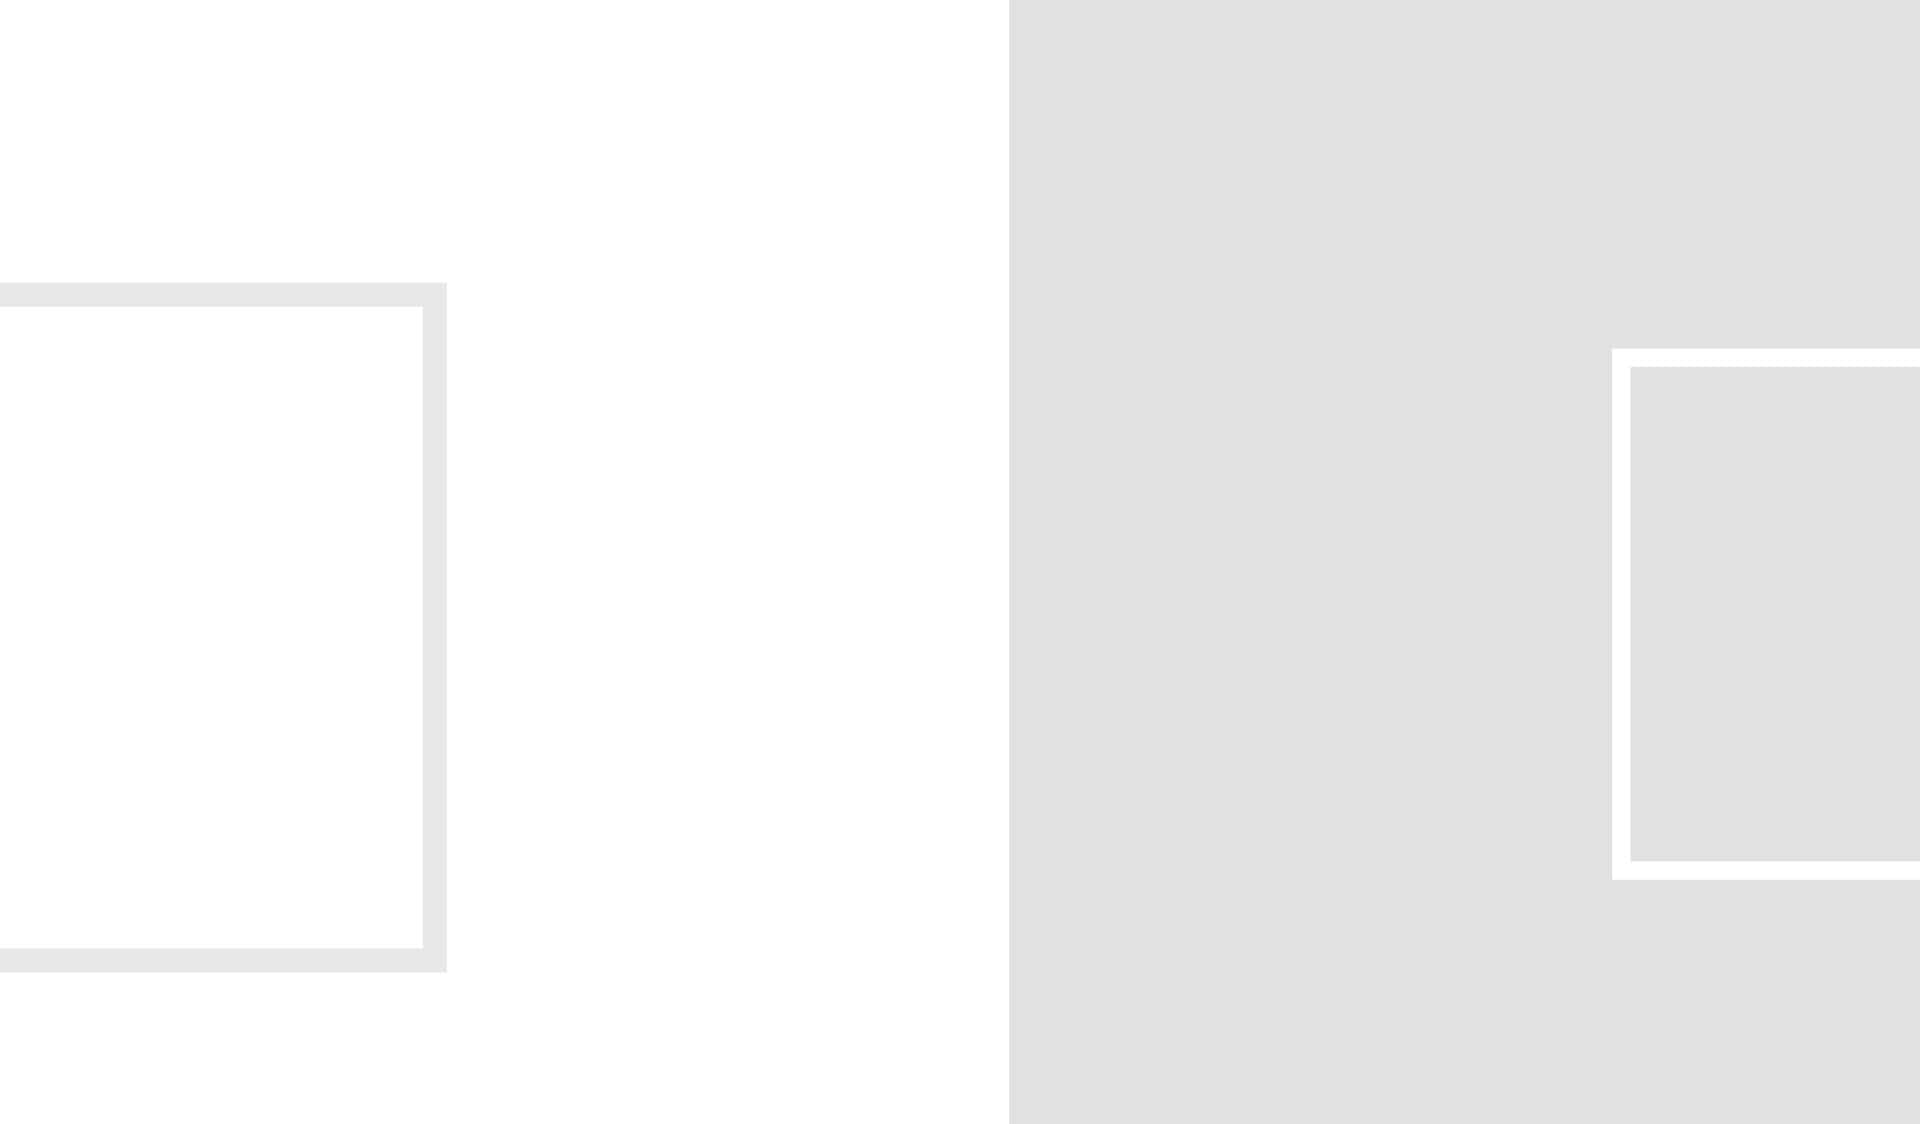
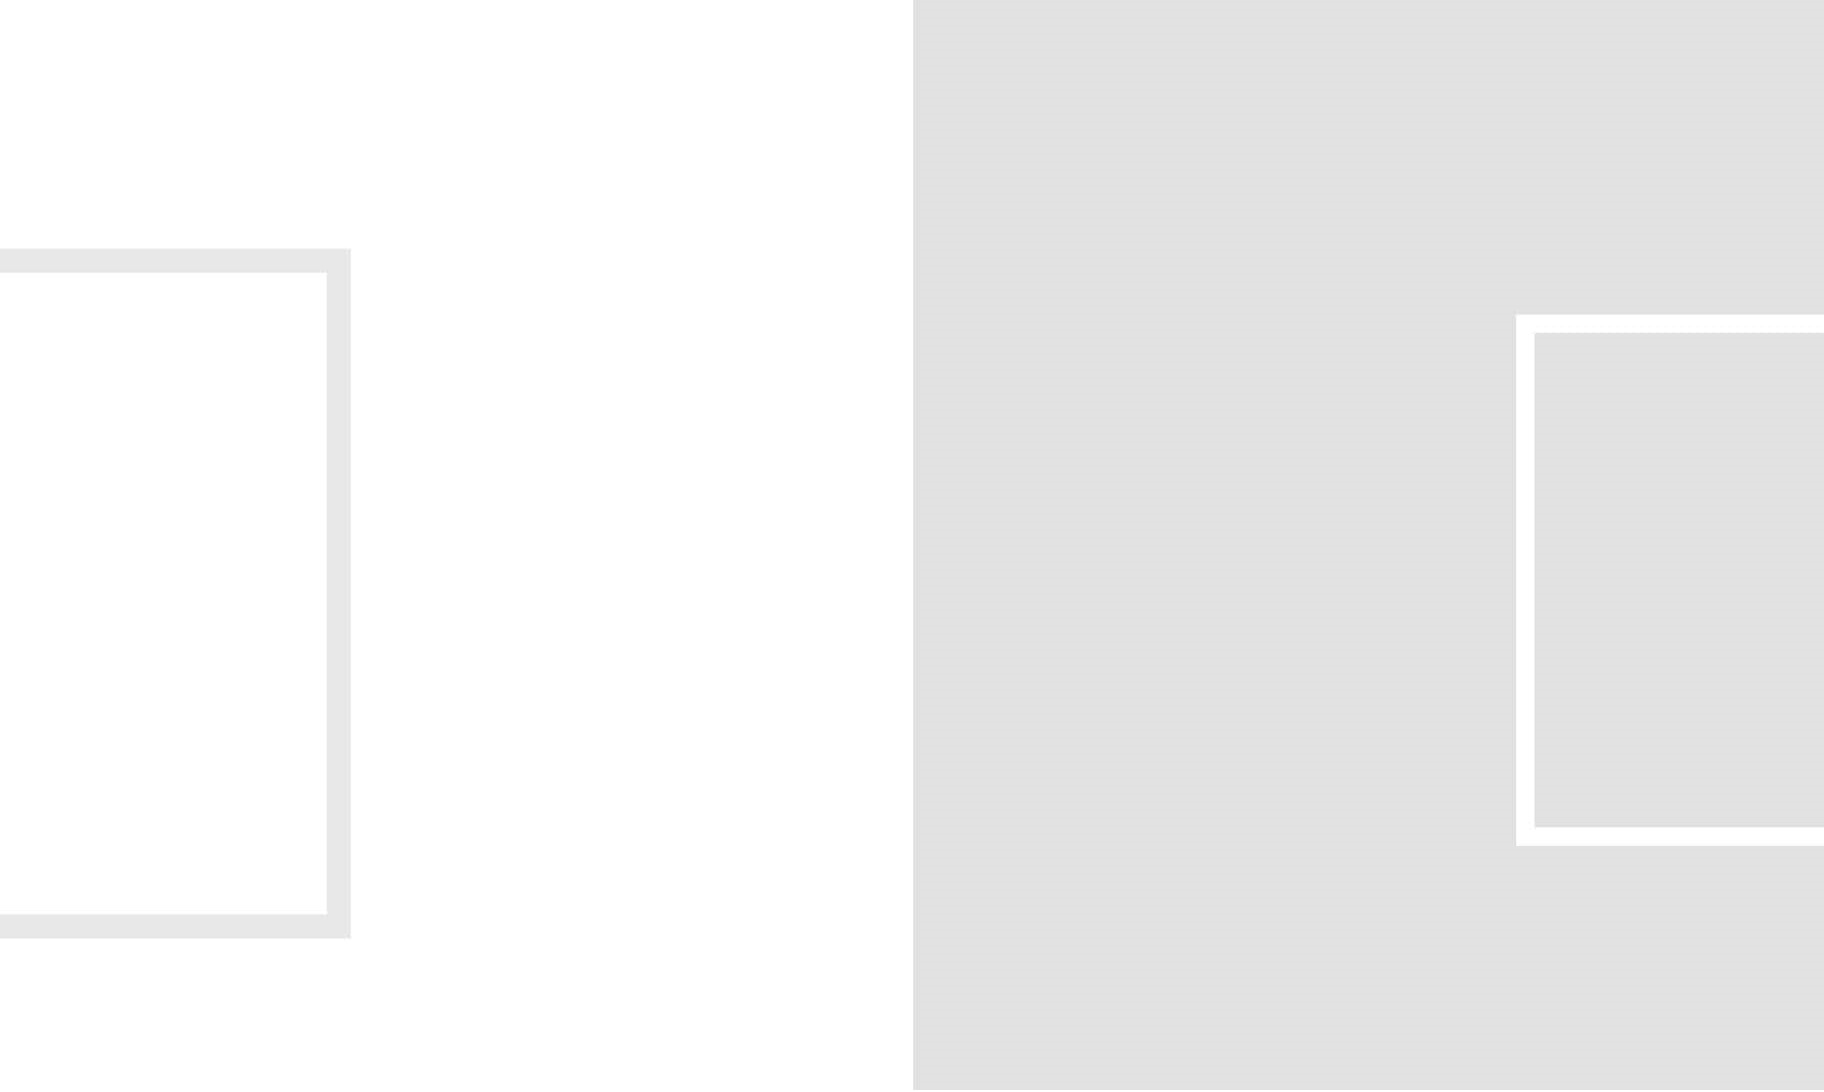
Removed portfolio for now, button animation, centred image

Changed region(s): [[0.8125, 0.2802, 1.0, 0.8095], [0.5, 0.0, 1.0, 1.0]]

diff --git a/index.html b/index.html
@@ -273,92 +273,7 @@
             <h3>My recent Works</h3>
             <img src="assets/img/lines.svg" class="img-lines" alt="lines" />
           </div>
-          <div class="row">
-            <div class="col-md-4 col-xs-6">
-              <div class="portfolio-item">
-                <img src="assets/img/Portfolio-1.jpg" class="img-res" alt="" />
-                <div class="portfolio-item-info">
-                  <h4>Project Title</h4>
-                  <a href="#" data-toggle="modal" data-target="#portfolioItem1"
-                    ><span class="glyphicon glyphicon-eye-open"></span
-                  ></a>
-                  <a href="#"><span class="glyphicon glyphicon-link"></span></a>
-                </div>
-                <!-- /.portfolio-item-info -->
-              </div>
-              <!-- /.portfolio-item -->
-            </div>
-            <div class="col-md-4 col-xs-6">
-              <div class="portfolio-item">
-                <img src="assets/img/Portfolio-2.jpg" class="img-res" alt="" />
-                <div class="portfolio-item-info">
-                  <h4>Project Title</h4>
-                  <a href="#" data-toggle="modal" data-target="#portfolioItem2"
-                    ><span class="glyphicon glyphicon-eye-open"></span
-                  ></a>
-                  <a href="#"><span class="glyphicon glyphicon-link"></span></a>
-                </div>
-                <!-- /.portfolio-item-info -->
-              </div>
-              <!-- /.portfolio-item -->
-            </div>
-            <div class="col-md-4 col-xs-6">
-              <div class="portfolio-item">
-                <img src="assets/img/Portfolio-3.jpg" class="img-res" alt="" />
-                <div class="portfolio-item-info">
-                  <h4>Project Title</h4>
-                  <a href="#" data-toggle="modal" data-target="#portfolioItem3"
-                    ><span class="glyphicon glyphicon-eye-open"></span
-                  ></a>
-                  <a href="#"><span class="glyphicon glyphicon-link"></span></a>
-                </div>
-                <!-- /.portfolio-item-info -->
-              </div>
-              <!-- /.portfolio-item -->
-            </div>
-            <div class="col-md-4 col-xs-6">
-              <div class="portfolio-item">
-                <img src="assets/img/Portfolio-4.jpg" class="img-res" alt="" />
-                <div class="portfolio-item-info">
-                  <h4>Project Title</h4>
-                  <a href="#" data-toggle="modal" data-target="#portfolioItem4"
-                    ><span class="glyphicon glyphicon-eye-open"></span
-                  ></a>
-                  <a href="#"><span class="glyphicon glyphicon-link"></span></a>
-                </div>
-                <!-- /.portfolio-item-info -->
-              </div>
-              <!-- /.portfolio-item -->
-            </div>
-            <div class="col-md-4 col-xs-6">
-              <div class="portfolio-item">
-                <img src="assets/img/Portfolio-5.jpg" class="img-res" alt="" />
-                <div class="portfolio-item-info">
-                  <h4>Project Title</h4>
-                  <a href="#" data-toggle="modal" data-target="#portfolioItem5"
-                    ><span class="glyphicon glyphicon-eye-open"></span
-                  ></a>
-                  <a href="#"><span class="glyphicon glyphicon-link"></span></a>
-                </div>
-                <!-- /.portfolio-item-info -->
-              </div>
-              <!-- /.portfolio-item -->
-            </div>
-            <div class="col-md-4 col-xs-6">
-              <div class="portfolio-item">
-                <img src="assets/img/Portfolio-6.jpg" class="img-res" alt="" />
-                <div class="portfolio-item-info">
-                  <h4>Project Title</h4>
-                  <a href="#" data-toggle="modal" data-target="#portfolioItem6"
-                    ><span class="glyphicon glyphicon-eye-open"></span
-                  ></a>
-                  <a href="#"><span class="glyphicon glyphicon-link"></span></a>
-                </div>
-                <!-- /.portfolio-item-info -->
-              </div>
-              <!-- /.portfolio-item -->
-            </div>
-          </div>
+          <!-- to be added -->
         </div>
       </section>
       <!-- /.secton-portfolio -->

diff --git a/backup of portfolio.html b/backup of portfolio.html
@@ -1,0 +1,86 @@
+<div class="row">
+  <div class="col-md-4 col-xs-6">
+    <div class="portfolio-item">
+      <img src="assets/img/Portfolio-1.jpg" class="img-res" alt="" />
+      <div class="portfolio-item-info">
+        <h4>Project Title</h4>
+        <a href="#" data-toggle="modal" data-target="#portfolioItem1"
+          ><span class="glyphicon glyphicon-eye-open"></span
+        ></a>
+        <a href="#"><span class="glyphicon glyphicon-link"></span></a>
+      </div>
+      <!-- /.portfolio-item-info -->
+    </div>
+    <!-- /.portfolio-item -->
+  </div>
+  <div class="col-md-4 col-xs-6">
+    <div class="portfolio-item">
+      <img src="assets/img/Portfolio-2.jpg" class="img-res" alt="" />
+      <div class="portfolio-item-info">
+        <h4>Project Title</h4>
+        <a href="#" data-toggle="modal" data-target="#portfolioItem2"
+          ><span class="glyphicon glyphicon-eye-open"></span
+        ></a>
+        <a href="#"><span class="glyphicon glyphicon-link"></span></a>
+      </div>
+      <!-- /.portfolio-item-info -->
+    </div>
+    <!-- /.portfolio-item -->
+  </div>
+  <div class="col-md-4 col-xs-6">
+    <div class="portfolio-item">
+      <img src="assets/img/Portfolio-3.jpg" class="img-res" alt="" />
+      <div class="portfolio-item-info">
+        <h4>Project Title</h4>
+        <a href="#" data-toggle="modal" data-target="#portfolioItem3"
+          ><span class="glyphicon glyphicon-eye-open"></span
+        ></a>
+        <a href="#"><span class="glyphicon glyphicon-link"></span></a>
+      </div>
+      <!-- /.portfolio-item-info -->
+    </div>
+    <!-- /.portfolio-item -->
+  </div>
+  <div class="col-md-4 col-xs-6">
+    <div class="portfolio-item">
+      <img src="assets/img/Portfolio-4.jpg" class="img-res" alt="" />
+      <div class="portfolio-item-info">
+        <h4>Project Title</h4>
+        <a href="#" data-toggle="modal" data-target="#portfolioItem4"
+          ><span class="glyphicon glyphicon-eye-open"></span
+        ></a>
+        <a href="#"><span class="glyphicon glyphicon-link"></span></a>
+      </div>
+      <!-- /.portfolio-item-info -->
+    </div>
+    <!-- /.portfolio-item -->
+  </div>
+  <div class="col-md-4 col-xs-6">
+    <div class="portfolio-item">
+      <img src="assets/img/Portfolio-5.jpg" class="img-res" alt="" />
+      <div class="portfolio-item-info">
+        <h4>Project Title</h4>
+        <a href="#" data-toggle="modal" data-target="#portfolioItem5"
+          ><span class="glyphicon glyphicon-eye-open"></span
+        ></a>
+        <a href="#"><span class="glyphicon glyphicon-link"></span></a>
+      </div>
+      <!-- /.portfolio-item-info -->
+    </div>
+    <!-- /.portfolio-item -->
+  </div>
+  <div class="col-md-4 col-xs-6">
+    <div class="portfolio-item">
+      <img src="assets/img/Portfolio-6.jpg" class="img-res" alt="" />
+      <div class="portfolio-item-info">
+        <h4>Project Title</h4>
+        <a href="#" data-toggle="modal" data-target="#portfolioItem6"
+          ><span class="glyphicon glyphicon-eye-open"></span
+        ></a>
+        <a href="#"><span class="glyphicon glyphicon-link"></span></a>
+      </div>
+      <!-- /.portfolio-item-info -->
+    </div>
+    <!-- /.portfolio-item -->
+  </div>
+</div>

diff --git a/assets/css/style.css b/assets/css/style.css
@@ -104,7 +104,8 @@ h4 {
 
 .btn-fill:hover,
 .btn-fill:focus {
-  color: #fff;
+  color: #000;
+  background-color: #fff
 }
 
 .btn:hover,
@@ -386,7 +387,6 @@ body {
 }
 
 .portfolio-item:before {
-  content: "";
   height: 100%;
   width: 100%;
   position: absolute;
@@ -406,10 +406,10 @@ body {
 
 .portfolio-item-info {
   position: absolute;
-  top: 150px;
-  left: 0px;
+  top: 100px;
+  left: 10px;
   z-index: 999;
-  opacity: 0;
+  opacity: 0.9;
   transition: opacity 0.25s ease-in-out, left 0.25s ease-in-out;
   -moz-transition: opacity 0.25s ease-in-out, left 0.25s ease-in-out;
   -webkit-transition: opacity 0.25s ease-in-out, left 0.25s ease-in-out;
@@ -418,7 +418,7 @@ body {
 }
 
 .portfolio-item:hover .portfolio-item-info {
-  left: 50px;
+  left: 23%;
   opacity: 1;
 }
 
@@ -444,9 +444,11 @@ body {
 
 .portfolio-item-info a:hover {
   color: #212121;
-  background-color: #fff;
+  background-color: #fff;\
 }
-
+.portfolio-item .img-res:hover {
+  opacity: 0.6;
+}
 .section-portfolio .btn {
   margin-top: 10px;
 }
